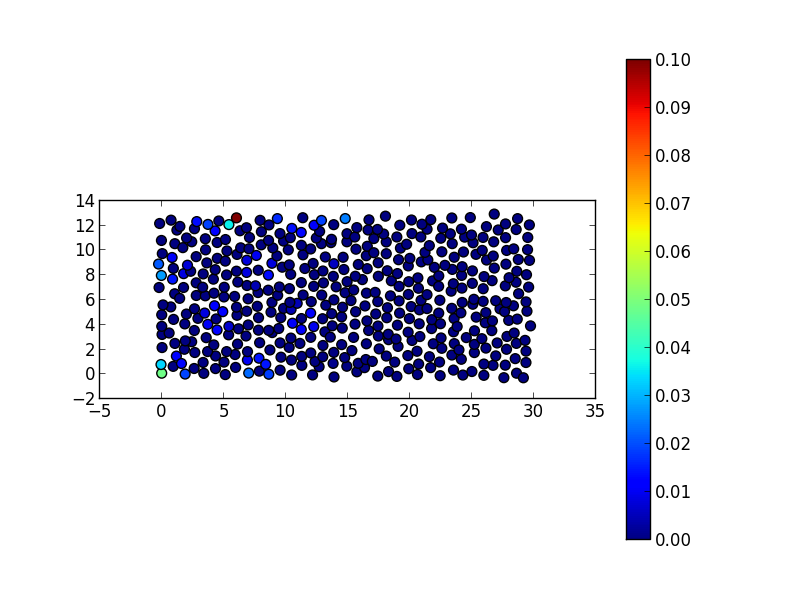
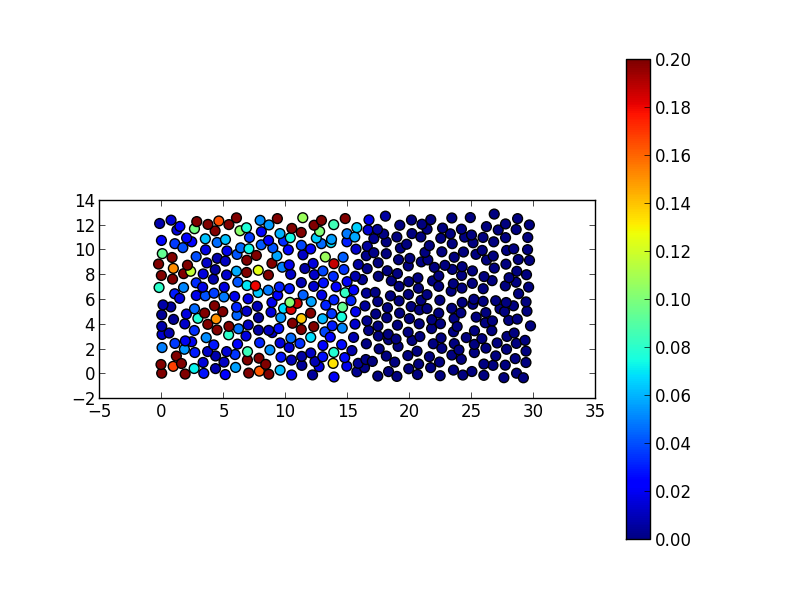
somewhat working egfr/notch distribution

diff --git a/v2.py b/v2.py
@@ -24,22 +24,22 @@ def shRange(conc_array, triang):
 #parameter definitions
 #(will go here eventually)
 #egfr/notch
-Ae,An = .0001,.0001
+Ae,An = .01,.01
 nae,nan = 4.0,4.0
 
 De,Dn = 1.0,1.0
-Te,Tn = 2.0,2.0
 
 Ee,Nn = 0.5,0.5
 nee,nnn = 2.0,2.0
 
 #yan
-Ny = 0.005
+Ny = 0.5
 nny = 2.0
 Py = 1.0
 npy = 2.0
 Ay = 0.5
 nay = 6.0
+
 #pnt
 Ep = 0.5
 nep = 4.0
@@ -76,9 +76,9 @@ def f(y, t, nmol, triang):
     #actually calculate the rates of change
 
     #for 'egfr', the molecule at index [0,:,:]
-    xprime[0,:,:] = (1.0-hill(a/Ae,1.0,nae)) * (hill(e/Ee,1.0,nee) + De*shRange(s,triang)/Te) - e + De*diff(e,triang)/Te
+    xprime[0,:,:] = (1.0-hill(a/Ae,1.0,nae)) * (hill(e/Ee,1.0,nee) + De*shRange(s,triang)) - e + De*diff(e,triang)
     #for 'notch', the molecule at index [1,:,:]
-    xprime[1,:,:] = (1.0-hill(a/Ae,1.0,nae)) * (hill(e/Ee,1.0,nee) + De*shRange(s,triang)/Te) - e + De*diff(e,triang)/Te
+    xprime[1,:,:] = (1.0-hill(a/An,1.0,nan)) * (hill(n/Nn,1.0,nnn) + Dn*shRange(s,triang)) - n + Dn*diff(n,triang)
     # for 'y', the molecule at index [1,:,:]
     xprime[2,:,:] = hill(n/Ny,1.0,nny)*(1-hill(a/Ay,1.0,nay))-y
     # for 'p', the molecule at index [2,:,:]
@@ -116,7 +116,7 @@ resols = [np.reshape(i, [nmol,xdim,ydim]) for i in sol]
 
 #make a pretty plot of results, control the time point and molecule using 'c'
 plt.clf()
-plt.scatter(distlattice[1].flatten(), distlattice[0].flatten(), c = resols[1][0], vmin = 0, vmax = 1.5, s = 50)
+plt.scatter(distlattice[1].flatten(), distlattice[0].flatten(), c = resols[1][0], vmin = 0, vmax = 0.2, s = 50)
 plt.axes().set_aspect('equal')
 plt.colorbar()
 plt.savefig("fig")
